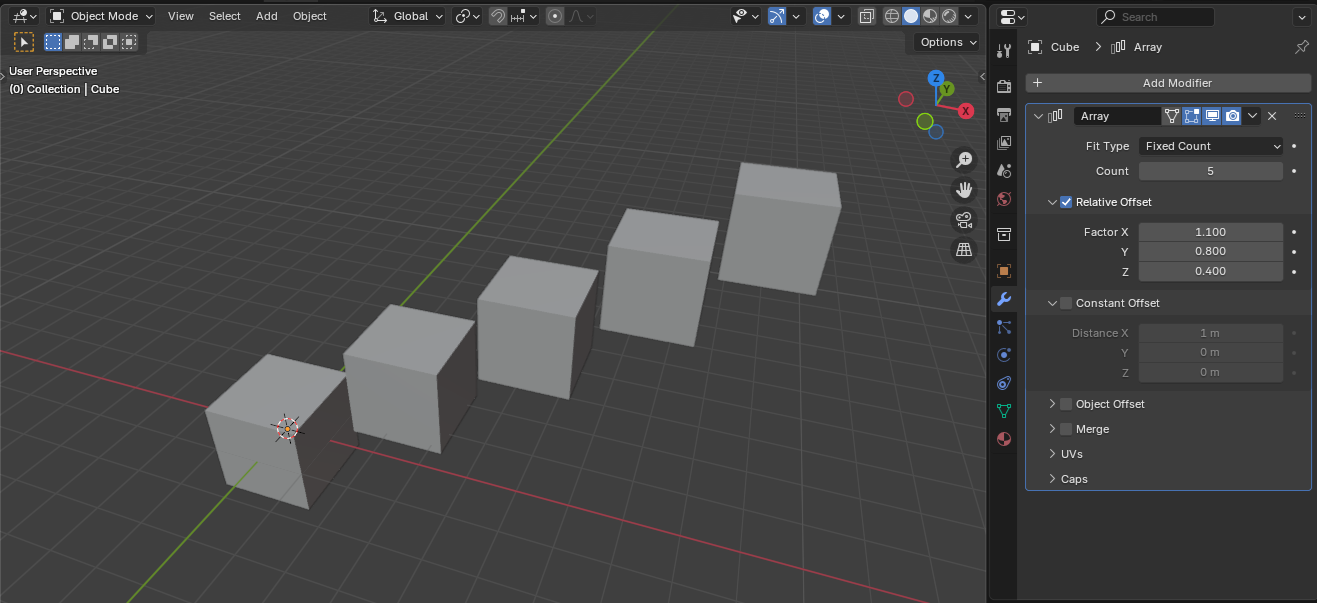
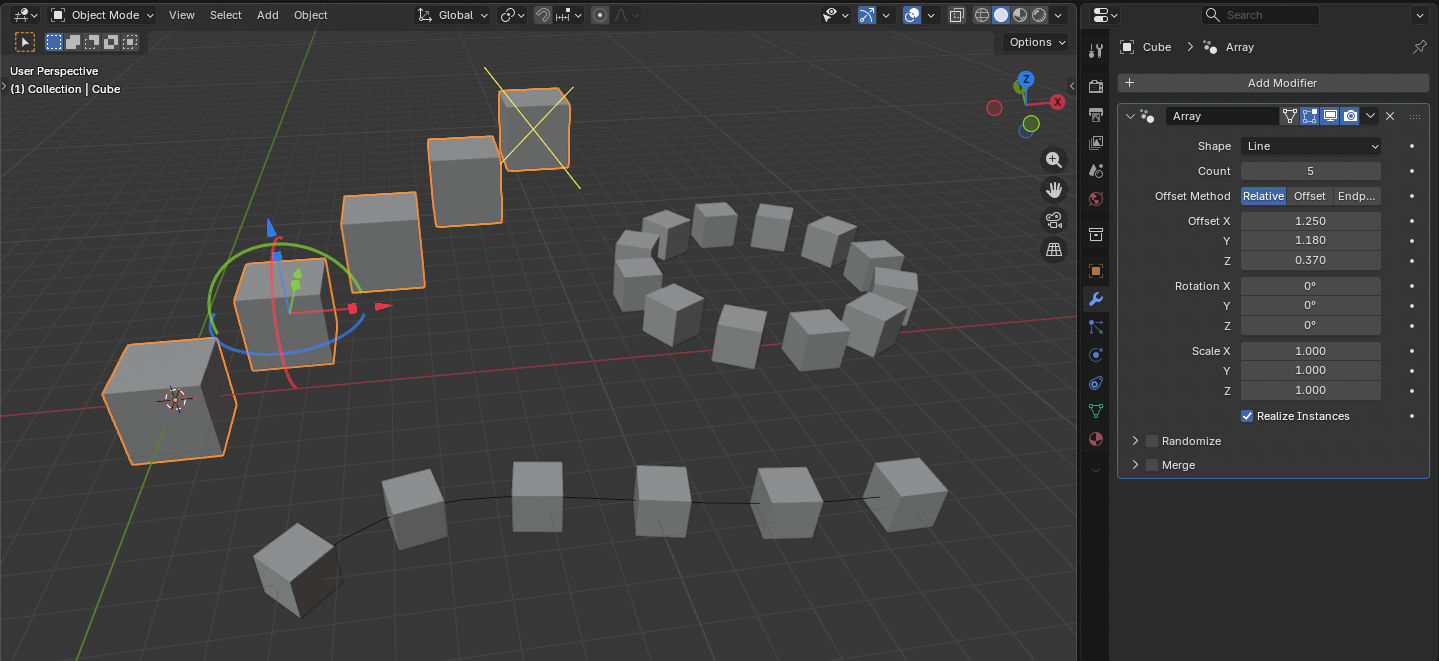
Added theory 3

diff --git a/03-modifiers.md b/03-modifiers.md
@@ -1,0 +1,240 @@
+# Работа с модификаторами
+
+Модификаторы - это инструменты, которые позволяют:
+
+* Изменять форму объектов без прямого изменения исходной геометрии (увеличивать количество полигонов, изгибать, сглаживать и т.п.)
+* Вносить изменения в параметры геометрии (например в веса вершин, UV карту и прочее)
+* Реализовать сложную анимацию (например скелетную и т.п.)
+* Реализовывать физику
+
+Модификаторы являются **не деструктивным редактированием**, т.е. вы можете в любой момент вернуться к исходному состоянию объекта и повторно применить или настроить модификаторы. Помимо этого Blender (как и другие пакеты для 3D моделирования) предлагает составлять композицию из модификаторов, влияющих на объект последовательно (слоями).
+
+![Простой пример 3-х модификаторов](assets/03_demo_modifiers.webp)
+
+Для того, чтобы приступить к работе с модификаторами, нужно выбрать объект с геометрией и открыть вкладку Properties / Modifiers.
+
+![Где открыть модификаторы](assets/03_where_to_open_modifiers.png)
+
+## Генерация геометрии
+
+Ниже перечислены некоторые модификаторы из раздела (не все).
+
+![Модификаторы для генерации геометрии](assets/03_generate_modifiers.png)
+
+Полный список модификаторов Generate доступен в [официальной документации Blender](https://docs.blender.org/manual/ru/dev/modeling/modifiers/generate/index.html)
+
+### Array
+
+Позволяет создать копии объектов со смещением по шаблону.
+
+![Array](assets/03_mod_gen_array.png)
+
+#### Shape
+
+* Line - размещение по прямой
+* Circle - размещение по окружности или дуге
+* Curve - размещение вдоль выбранной кривой
+* Transform - размещение с использованием трансформации (ручной ввод или другой объект)
+
+#### Количество копий
+
+* Count - фиксированное число экземпляров
+* Distance / Endpoint - распределение по расстоянию или между двумя точками
+* Для окружности - возможно управление угловым расстоянием и радиусом
+
+#### Смещение (Offset)
+
+* Relative - относительно размеров объекта
+* Offset (Fixed) - фиксированное смещение в мировых координатах
+* Можно задавать перемещение, вращение и масштаб для каждой копии
+
+#### Дополнительные опции
+
+* **Realize Instances** - преобразование экземпляров в реальную геометрию (нужно для Boolean, Merge и т.п.)
+* **Merge** - объединение перекрывающихся вершин по заданному расстоянию
+
+### Bevel
+
+Добавляет фаску (срез углов) с определенными параметрами. Можно задать угол при котором применяется модификатор к геометрии.
+
+![Bevel](assets/03_mod_gen_bevel.png)
+
+### Boolean
+
+Позволяет вырезать из объекта другую геометрию, или делать слияние с ней.
+
+![Boolean](assets/03_mod_gen_boolean.png)
+
+> ⚠ Применять с осторожностью. Часто сильно ломает сетку и приводит к очень плохой топологии.
+
+### Build
+
+Скрывает и показывает грани объекта с течением времени (зависит от timeline'а)
+
+![Build](assets/03_mod_gen_build.webp)
+
+### Decimate
+
+Позволяет упростить геометрию объекта - уменьшает количество вершин и граней с минимальными изменениями формы.
+
+![Decimate](assets/03_mod_gen_decimate.webp)
+
+### Mask
+
+Позволяет скрывать геометрию объекта на основе групп вершин (весов)
+
+![Mask](assets/03_mod_gen_mask.webp)
+
+### Mirror
+
+Позволяет отзеркалить геометрию.
+
+Перед применением следует разрезать объект на две половины и удалить ту часть, в которую будет отзеркалирован объект.
+
+![Mirror](assets/03_mod_gen_mirror.webp)
+
+После применения модификатора:
+
+![Mirror 2](assets/03_mod_gen_mirror2.webp)
+
+Альтернативный вариант - использовать опцию Bisect, которая сама сделает разрез и удаление лишней части объекта.
+
+### Remesh
+
+Данный модификатор позволяет заново создать топологию сетки.
+
+Имеются разные режимы:
+
+* Blocks - без сглаживания
+* Smooth - гладкая поверхность
+* Sharp - аналогичен Smooth, но сохраняет острые ребра и углы
+* Voxel - применяется воксельный метод
+
+![Remesh](assets/03_mod_gen_remesh.png)
+
+### Screw
+
+Позволяет выдавливать спираль из профиля.
+
+![Screw](assets/03_mod_gen_screw.webp)
+
+### Skin
+
+Использует вершины и ребра для создания поверхности, используя радиус каждой вершины.
+
+![Skin](assets/03_mod_gen_skin.png)
+
+### Solidify
+
+Создает толщину для меша (добавляет глубину).
+
+![Solidify](assets/03_mod_gen_solidify.webp)
+
+### Subdivision
+
+Подразделение поверхности (+ сглаживание). Используется для разделения граней сетки на более мелкие грани, придавая ей гладкий вид.
+
+![Subdiv](assets/03_mod_gen_subdiv.webp)
+
+## Деформация геометрии
+
+### Cast
+
+Изменяет форму меша, кривой, поверхности или решетки в сторону любой из нескольких предопределенных форм (сфера, цилиндр, кубоид)
+
+![Пример с обезьяной](assets/03_mod_def_cast.png)
+
+### Curve
+
+Позволяет деформировать меш вдоль кривой
+
+![Пример с Curve](assets/03_mod_def_curve.png)
+
+### Displace
+
+Смещает вершины в меше при помощи текстуры (карты высот)
+
+![Пример с Displace](assets/03_mod_def_displace.png)
+
+### Hook
+
+Деформирует меш с помощью другого объекта
+
+![Пример с Hook](assets/03_mod_def_hook.png)
+
+### Warp
+
+Деформирование меша с использованием двух точек (объектов)
+
+![Пример с Warp](assets/03_mod_def_warp.png)
+
+### Wave
+
+Добавляет к геометрии эффект волны
+
+![Пример с Wave](assets/03_mod_def_wave.png)
+
+## Композиция из модификаторов
+
+Порядок модификаторов в Blender очень важен. Каждый следующий модификатор работает с результатом предыдущего. Порядок модификаторов можно изменить в любой момент с помощью перетаскивания.
+
+![Пример с композицией модификаторов](assets/03_demo_mod_compose.webp)
+
+В примере выше сначала работает модификатор Boolean добавляя куб к мешу. После этого Subdiv. Если поменять порядок - Subdiv не будет сглаживать добваленный куб.
+
+## Атрибуты геометрии и данные объекта
+
+Помимо самой сетки (вершины, ребра, грани), объект в Blender хранит дополнительные данные - атрибуты, которые используются модификаторами, анимацией, материалами и физикой.
+
+К таким данным относятся:
+
+* Группы вершин (Vertex Groups)
+* Ключи формы (Shape Keys)
+* UV-развертки
+* Цветовые атрибуты (Color Attributes)
+* И другие пользовательские атрибуты
+
+Эти данные не изменяют топологию напрямую, но влияют на то, как объект деформируется, отображается и взаимодействует с другими системами.
+
+### Vertex Groups
+
+Vertex Groups - это группы вершин с назначенным весом (weight).
+
+![Пример с vertex groups](assets/03_vertex_group_demo.webp)
+
+Каждой вершине можно назначить значение от 0 до 1, которое определяет степень ее влияния в группе.
+
+Используются для:
+
+* Работы модификаторов (Mask, Hook, Displace и т.д.)
+* Скелетной анимации (Armature)
+* Симуляции ткани
+* Частичного применения деформаций
+
+Например:
+
+* Можно изгибать только часть объекта
+* Скрывать только выбранные вершины
+* Деформировать объект не целиком, а локально
+
+### Shape Keys
+
+Shape Keys позволяют хранить несколько вариантов формы одного и того же объекта.
+
+![Пример с shapekey](assets/03_shapekey_demo.webp)
+
+Принцип работы:
+
+1. Есть базовая форма (Basis)
+2. Создаются альтернативные формы
+3. Каждую форму можно анимировать через параметр влияния (Value)
+4. Для каждой формы можно индивидуально менять степень влияния (тем самым смешивать разные формы)
+
+Используются для:
+
+* Мимики персонажей
+* Морфинга
+* Корректирующих деформаций
+* Процедурных изменений формы
+
+Shape Keys работают на уровне положения вершин - топология при этом должна оставаться неизменной.

diff --git a/README.md b/README.md
@@ -18,7 +18,7 @@
 - ✏ Основы режима редактирования (Edit Mode)
 - 🎯 Операции над мешем
 
-### 3. 🧩 Работа с модификаторами (TODO)
+### 3. [🧩 Работа с модификаторами](03-modifiers.md)
 
 - 🌀 Генерация геометрии
 - 🌊 Деформация геометрии
@@ -169,13 +169,14 @@ timeline
 ├── 01-viewport-basics        # 🖼 Работа во Viewport
 ├── 02-mesh-editing           # ✂ Редактирование меша
 ├── 03-modifiers              # 🧩 Работа с модификаторами
-├── 04-materials              # 🎨 Базовая работа с материалами
-├── 05-shader-editor          # 💡 Продвинутая работа с материалами и текстурирование
-├── 06-asset-libraries        # 📂 Библиотеки асетов
-├── 07-rendering              # 📸 Рендер изображения
-├── 08-animation              # 🎞 Анимация
-├── 09-procedural-modeling    # 🧬 Процедурное моделирование
-├── 10-baking-materials       # 🔥 Создание собственных материалов и запекание
+├── 04-retopology             # 🔄 Ретопология
+├── 05-materials              # 🎨 Базовая работа с материалами
+├── 06-shader-editor          # 💡 Продвинутая работа с материалами и текстурирование
+├── 07-asset-libraries        # 📂 Библиотеки асетов
+├── 08-rendering              # 📸 Рендер изображения
+├── 09-animation              # 🎞 Анимация
+├── 10-procedural-modeling    # 🧬 Процедурное моделирование
+├── 11-baking-materials       # 🔥 Создание собственных материалов и запекание
 ├── assets                    # Вспомогательные изображения и файлы
 └── labs                      # Лабораторные работы
     └── examples              # Изображения и файлы для лабораторных работ
